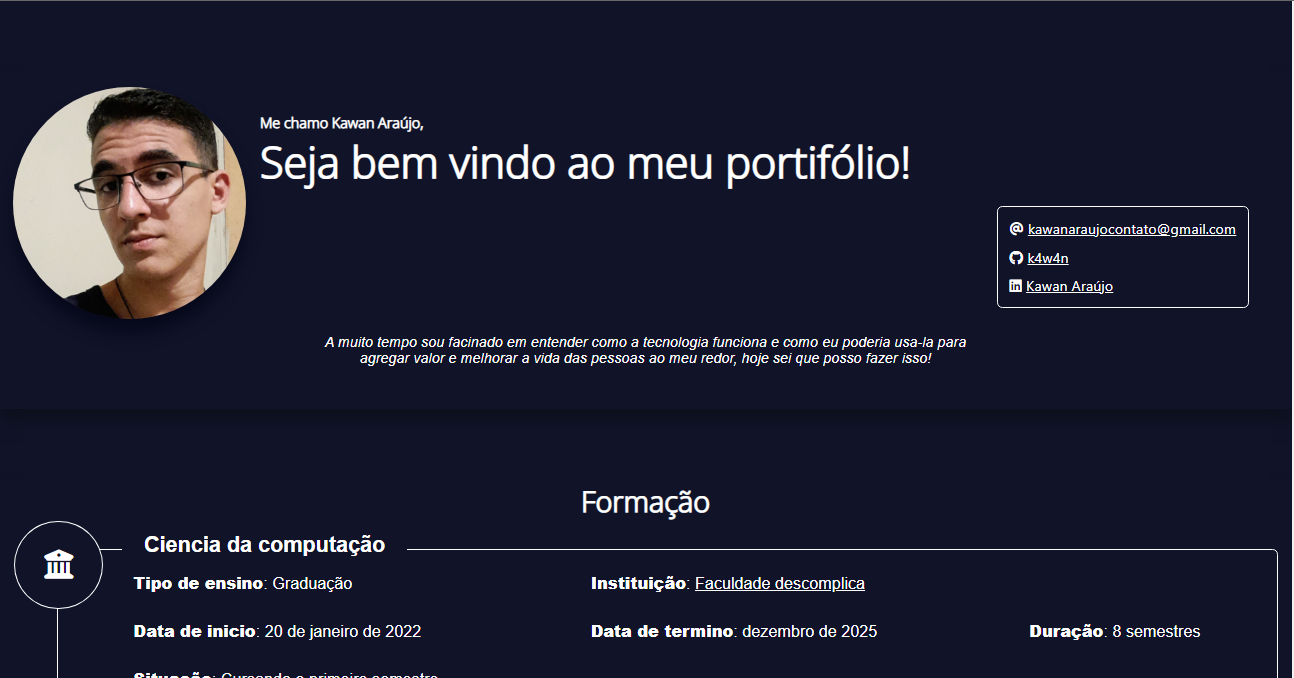
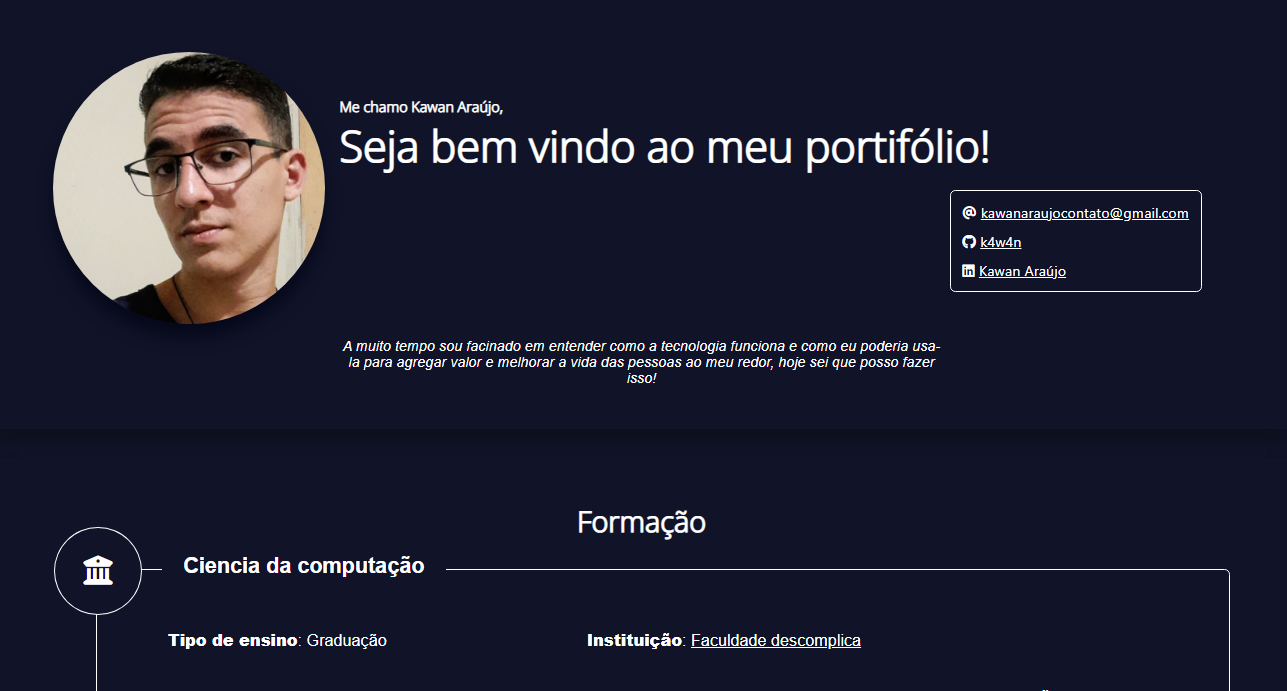
Corrigindo portugues e criando skills

diff --git a/index.html b/index.html
@@ -9,7 +9,7 @@
     <link rel="shortcut icon" href="favicon.ico" type="image/x-icon">
     <script src="script/main.js"></script>
     <script src="https://kit.fontawesome.com/e728814d1c.js" crossorigin="anonymous"></script>
-    <title>Bem-vindo ao meu portifolio!</title>
+    <title>Bem-vindo ao meu portfólio!</title>
 </head>
 
 <body>
@@ -21,7 +21,7 @@
 
                 <article class="apresentacao__areatexto">
                     <p class="areatexto__frase">Me chamo Kawan Araújo,</p>
-                    <p class="areatexto__frase areatexto__frase--titulo">Seja bem vindo ao meu portifólio!</p>
+                    <p class="areatexto__frase areatexto__frase--titulo">Seja bem vindo ao meu portfólio!</p>
                 </article>
 
                 <article class="contatos">
@@ -43,7 +43,7 @@
 
         </article>
         <p class="perfil__frase">
-            A muito tempo sou facinado em entender como a tecnologia funciona
+            A muito tempo sou fascinado em entender como a tecnologia funciona
             e como eu poderia usa-la para agregar valor e melhorar a vida das
             pessoas ao meu redor, hoje sei que posso fazer isso!
         </p>
@@ -57,7 +57,7 @@
             <article class="formacao__item">
                 <i class="fa-solid fa-building-columns formacao__icone"></i>
                 <article class="formacao__info">
-                    <h2 class="formacao__titulo">Ciencia da computação</h2>
+                    <h2 class="formacao__titulo">Ciência da computação</h2>
                     <ul class="formacao__dataarea">
                         <li class="data">
                             <span class="key">Tipo de ensino</span>:
@@ -122,7 +122,7 @@
                         </li>
                         <li class="data">
                             <span class="key">Situação</span>:
-                            <span class="value">Concluido</span>
+                            <span class="value">Concluído</span>
                         </li>
                     </ul>
                     <article class="formacao_tagarea">
@@ -161,7 +161,7 @@
                         </li>
                         <li class="data">
                             <span class="key">Situação</span>:
-                            <span class="value">Concluido</span>
+                            <span class="value">Concluído</span>
                         </li>
                     </ul>
                     <article class="formacao_tagarea">
@@ -178,8 +178,8 @@
             <section class="projeto__area">
 
                 <article class="projeto__item">
-                    <div class="projeto__img"></div>
-                    <a class="projeto__btn--github" href="https://github.com/">
+                    <a href="https://pessoasapp.herokuapp.com/" class="projeto__img--pessoaapp"></a>
+                    <a class="projeto__btn--github" href="https://github.com/K4w4n/cadastro-de-pessoas">
                         <i class="fa-brands fa-github btn__icon"></i>
                         <span class="brn_txt--github">
                             Github
@@ -191,16 +191,18 @@
                             <i class="fa-brands fa-js tagarea__item"></i>
                             <i class="fa-brands fa-js tagarea__item"></i>
                         </div>
-                        <h2 class="projeto__titulo"> Projeto portifólio</h2>
+                        <h2 class="projeto__titulo"> Cadastro de pessoas</h2>
                         <p class="projeto__descricao__paragrafo">
-                            Esse é um projeto que irá compor o meu portifolio.
+                            Um sistema simples em que podemos cadastrar e navegar pelas informações de pessoas, com esse
+                            projeto é possível aprender mais sobre mysql, php, responsividade, MVC e diversas técnicas e
+                            tecnologias.
                         </p>
                     </div>
                 </article>
 
                 <article class="projeto__item">
-                    <div class="projeto__img"></div>
-                    <a class="projeto__btn--github" href="https://github.com/">
+                    <a href="https://ceoscommunity.herokuapp.com/" class="projeto__img--ceos"></a>
+                    <a class="projeto__btn--github" href="https://github.com/K4w4n/Ceos">
                         <i class="fa-brands fa-github btn__icon"></i>
                         <span class="brn_txt--github">
                             Github
@@ -212,16 +214,18 @@
                             <i class="fa-brands fa-js tagarea__item"></i>
                             <i class="fa-brands fa-js tagarea__item"></i>
                         </div>
-                        <h2 class="projeto__titulo"> Projeto portifólio</h2>
+                        <h2 class="projeto__titulo"> Ceos Community</h2>
                         <p class="projeto__descricao__paragrafo">
-                            Esse é um projeto que irá compor o meu portifolio.
+                            Esse foi um projeto desenvolvido em equipe para o TCC de desenvolvimento de sistemas. No
+                            site você pode escrever, ler e compartilhar artigos a respeito da programação, além de todas
+                            as funcionalidades de login.
                         </p>
                     </div>
                 </article>
 
                 <article class="projeto__item">
-                    <div class="projeto__img"></div>
-                    <a class="projeto__btn--github" href="https://github.com/">
+                    <a href="https://k4w4n.github.io/portifolio/" class="projeto__img--portifolio"></a>
+                    <a class="projeto__btn--github" href="https://github.com/K4w4n/portifolio">
                         <i class="fa-brands fa-github btn__icon"></i>
                         <span class="brn_txt--github">
                             Github
@@ -233,9 +237,10 @@
                             <i class="fa-brands fa-js tagarea__item"></i>
                             <i class="fa-brands fa-js tagarea__item"></i>
                         </div>
-                        <h2 class="projeto__titulo"> Projeto portifólio</h2>
+                        <h2 class="projeto__titulo"> Projeto portfólio</h2>
                         <p class="projeto__descricao__paragrafo">
-                            Esse é um projeto que irá compor o meu portifolio.
+                            Esse é o projeto do meu Portfólio, uma single page que é responsiva, seguindo boas praticas
+                            com o BEM no CSS e a responsividade.
                         </p>
                     </div>
                 </article>
@@ -251,57 +256,54 @@
                 <li class="skill">
                     <h3 class="skill__name">HTML, CSS e Javascript</h3>
                     <div class="skill__text">
-                        Lorem ipsum dolor sit, amet consectetur adipisicing elit. Minima quas atque tempora
-                        reprehenderit? Itaque expedita tenetur perspiciatis ipsum blanditiis rem nobis obcaecati a
-                        facere. Laboriosam hic ex libero tempora at.
+                        Meus estudos com essas 3 tecnologias começaram em 2019, com um curso técnico em desenvolvimento
+                        de sistemas, desde então venho praticando e estudando mais a fundo essas tecnologias para
+                        desenvolver cada vez mais e melhor.
                     </div>
                 </li>
                 <li class="skill">
                     <h3 class="skill__name">Git e GitHub</h3>
                     <div class="skill__text">
-                        Lorem ipsum dolor sit, amet consectetur adipisicing elit. Minima quas atque tempora
-                        reprehenderit? Itaque expedita tenetur perspiciatis ipsum blanditiis rem nobis obcaecati a
-                        facere. Laboriosam hic ex libero tempora at.
+                        Conheci a ferramenta em 2020, desde então venho estudando e sempre utilizo em meus projetos
+                        pessoais e profissionais, elas foram muito importantes para mim no desenvolvimento do meu TCC,
+                        já que muitas pessoas trabalhavam no código e a administração de tudo isso só foi possível com o
+                        seu uso.
                     </div>
                 </li>
                 <li class="skill">
-                    <h3 class="skill__name">PHP</h3>
+                    <h3 class="skill__name">Mysql e SQL no geral</h3>
                     <div class="skill__text">
-                        Lorem ipsum dolor sit, amet consectetur adipisicing elit. Minima quas atque tempora
-                        reprehenderit? Itaque expedita tenetur perspiciatis ipsum blanditiis rem nobis obcaecati a
-                        facere. Laboriosam hic ex libero tempora at.
+                        Comecei a aprender em 2019, após passar alguns meses estudando e entendendo o seu funcionamento
+                        já consegui desenvolver projetos em diferentes linguagens que se comunicavam com o mesmo tipo de
+                        banco de dados.
                     </div>
                 </li>
                 <li class="skill">
                     <h3 class="skill__name">Padrão MVC</h3>
                     <div class="skill__text">
-                        Lorem ipsum dolor sit, amet consectetur adipisicing elit. Minima quas atque tempora
-                        reprehenderit? Itaque expedita tenetur perspiciatis ipsum blanditiis rem nobis obcaecati a
-                        facere. Laboriosam hic ex libero tempora at.
+                        Comecei a estuda-lo mais a fundo em 2022 onde desenvolvi meu primeiro projeto MVC, o projeto de
+                        <a href="https://pessoasapp.herokuapp.com/">cadastro de pessoas</a>.
                     </div>
                 </li>
                 <li class="skill">
                     <h3 class="skill__name">Bootstrap</h3>
                     <div class="skill__text">
-                        Lorem ipsum dolor sit, amet consectetur adipisicing elit. Minima quas atque tempora
-                        reprehenderit? Itaque expedita tenetur perspiciatis ipsum blanditiis rem nobis obcaecati a
-                        facere. Laboriosam hic ex libero tempora at.
+                        Comecei estudando o framework em 2021 com o curso técnico de Desenvolvimento de sistemas, desde
+                        então sempre o utilizo para meus projetos pessoais.
                     </div>
                 </li>
                 <li class="skill">
-                    <h3 class="skill__name">Mysql, Firebase e SQL no geral</h3>
+                    <h3 class="skill__name"> PHP</h3>
                     <div class="skill__text">
-                        Lorem ipsum dolor sit, amet consectetur adipisicing elit. Minima quas atque tempora
-                        reprehenderit? Itaque expedita tenetur perspiciatis ipsum blanditiis rem nobis obcaecati a
-                        facere. Laboriosam hic ex libero tempora at.
+                        Comecei a aprender em 2020 no curso técnico de desenvolvimento de sistemas, desde então venho
+                        estudando e me aprofundando na linguagem. Com ela consegui meu primeiro freelancer e já
+                        desenvolvi diversos projetos pessoais.
                     </div>
                 </li>
                 <li class="skill">
                     <h3 class="skill__name">Node.js</h3>
                     <div class="skill__text">
-                        Lorem ipsum dolor sit, amet consectetur adipisicing elit. Minima quas atque tempora
-                        reprehenderit? Itaque expedita tenetur perspiciatis ipsum blanditiis rem nobis obcaecati a
-                        facere. Laboriosam hic ex libero tempora at.
+                        Comecei a estuda-lo em 2020, aprendi tanto que posteriormente o utilizei para desenvolver o <a href="https://ceoscommunity.herokuapp.com/">meu TCC</a>
                     </div>
                 </li>
             </ul>

diff --git a/style/main.css b/style/main.css
@@ -188,7 +188,10 @@ a.value:hover {
     display: flex;
     flex-direction: row;
     justify-content: end;
+}
 
+.formacao_tagarea, .projeto__tagarea {
+    display: none;
 }
 
 .tagarea__item {
@@ -233,12 +236,40 @@ a.value:hover {
     box-shadow: var(--shadow);
 }
 
-.projeto__img {
+[class*="projeto__img"] {
+    transition: background-position-y 1s cubic-bezier(0.215, 0.610, 0.355, 1);
     flex-grow: 3;
-    background-image: url('../img/cadastro_pessoas.png');
+    background-image: url('../img/WinXP.png');
     background-repeat: no-repeat;
     background-size: cover;
     border-radius: 6px 10px 0px 0px;
+    min-height: 7em;
+}
+
+[class*="--pessoaapp"] {
+    background-image: url('../img/cadastro_pessoas.png');
+}
+[class*="--ceos"] {
+    background-image: url('../img/ceos.png');
+}
+[class*="--portifolio"] {
+    background-image: url('../img/portifolio.png');
+}
+
+[class*="projeto__img"]:hover {
+    animation-name: bg-project;
+    animation-duration: 5s;
+    animation-iteration-count: infinite;
+}
+
+@keyframes bg-project {
+    0%, 100% {
+        background-position-y: 0%;
+    }
+
+    50% {
+        background-position-y: 100%;
+    }
 }
 
 .projeto__btn--github {
